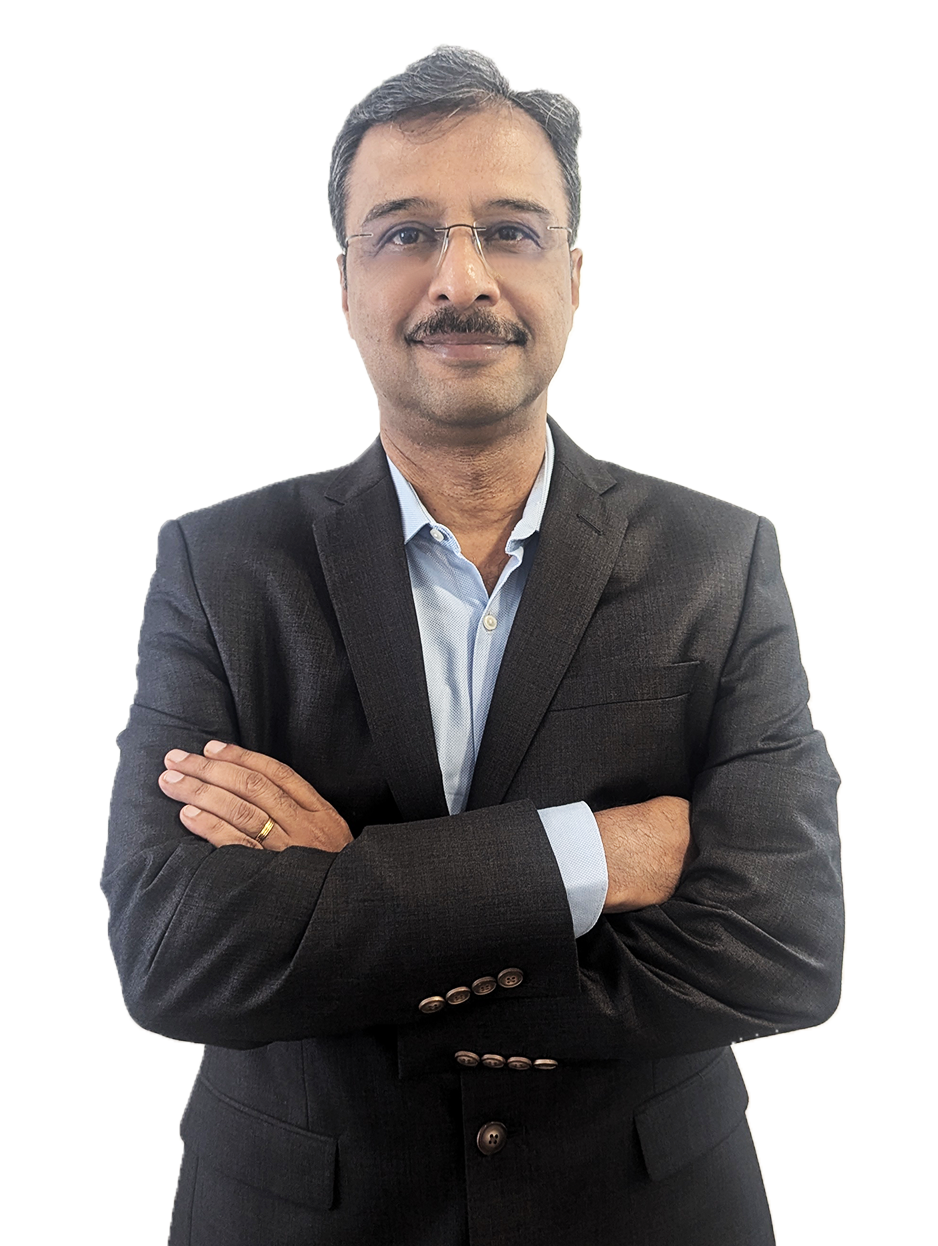
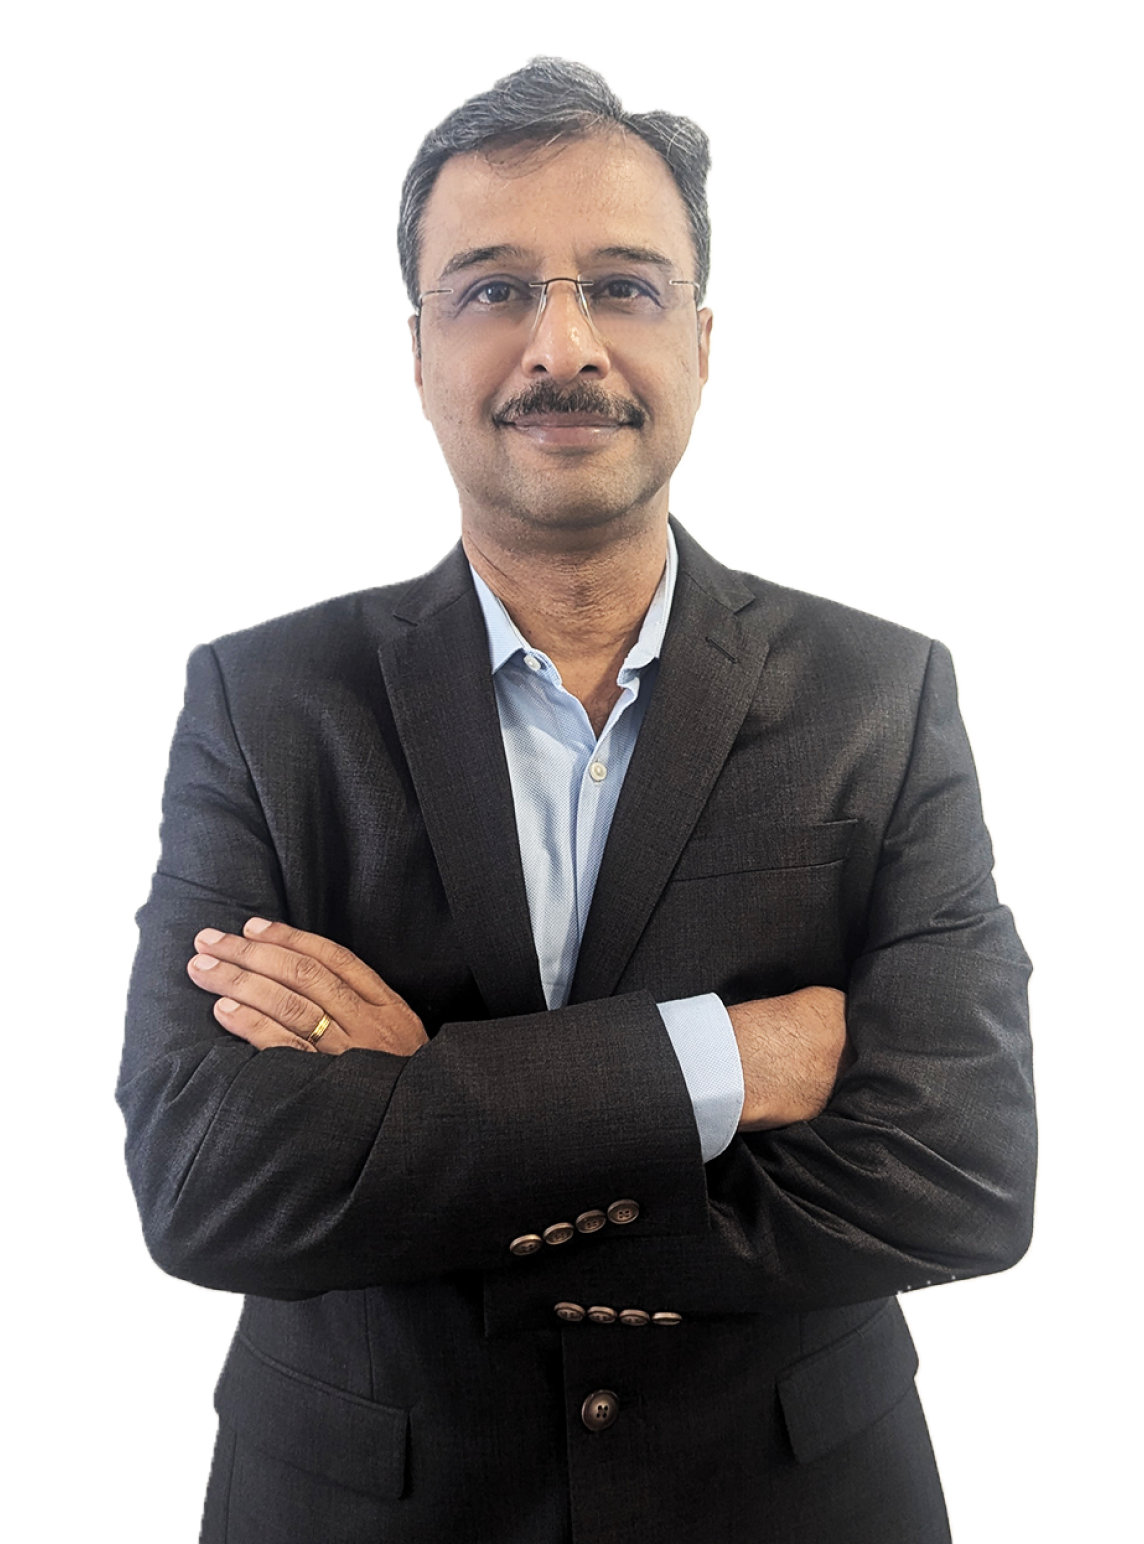
Resized Founders image

diff --git a/src/Pages/Home.jsx b/src/Pages/Home.jsx
@@ -897,8 +897,8 @@ function Home() {
           }}
           className="overflow-hidden relative w-full h-auto"
         >
-          <div className="flex lg:items-end xl:items-start gap-10 2xl:mt-10 lg:gap-16 justify-between 2xl:justify-center 2xl:gap-40 px-4 lg:px-0 max-lg:flex-col 2xl:ml-[100x] md:mr-[100px] md:ml-[85px]">
-            <div className=" flex flex-col w-full lg:w-1/2 xl:w-3/5 2xl:w-1/2 py-10">
+          <div className="flex lg:items-end xl:items-start gap-10 2xl:mt-0 lg:gap-16 justify-between 2xl:justify-center 2xl:gap-40 px-4 lg:px-0 max-lg:flex-col 2xl:ml-[100x] md:mr-[100px] md:ml-[85px]">
+            <div className=" flex flex-col w-full lg:w-1/2 xl:w-3/5 2xl:w-1/2 py-16">
               <div className="flex  z-10 lg:mt-12 2xl:mt-0 flex-col items-start  mr-0 font-light text-red-700 max-md:mt-10 max-md:max-w-full">
                 <h1 className="text-3xl Y-axis-text font-bold uppercase tracking-[3px] max-md:max-w-full ">
                   Founder message
